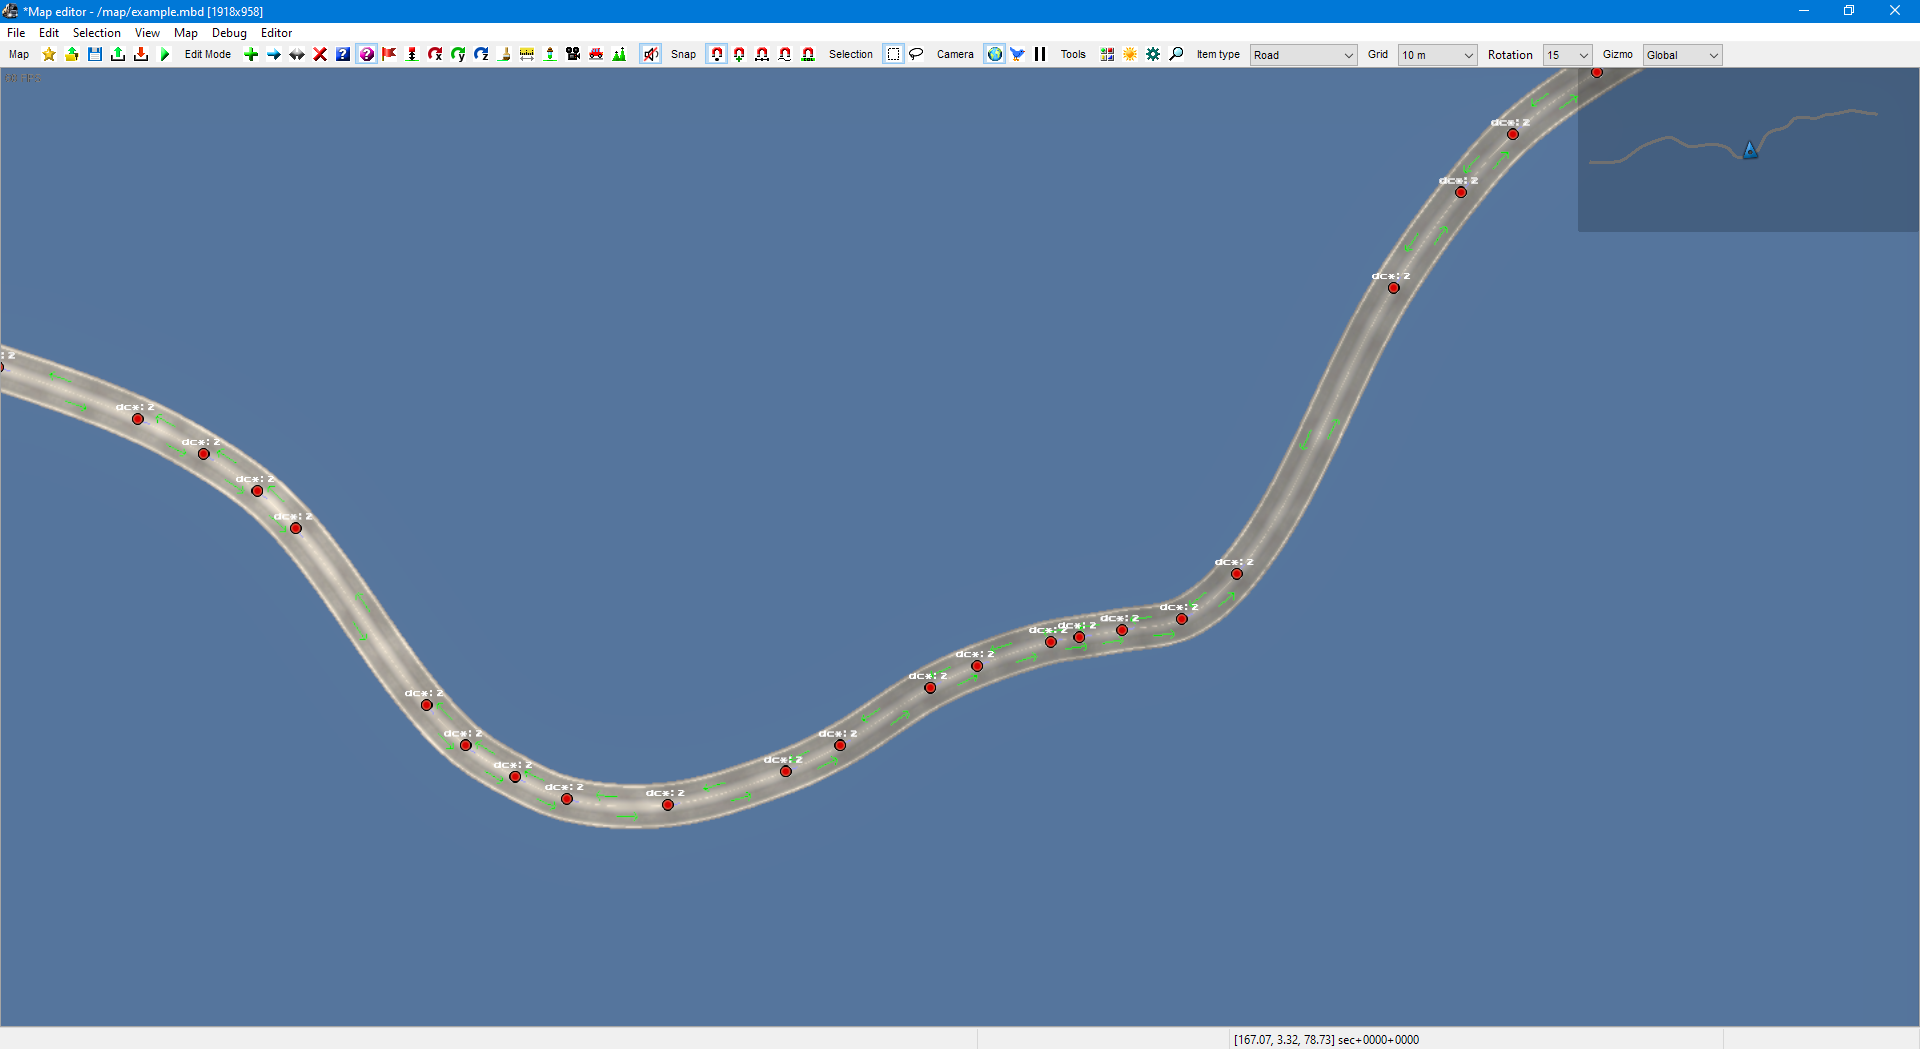
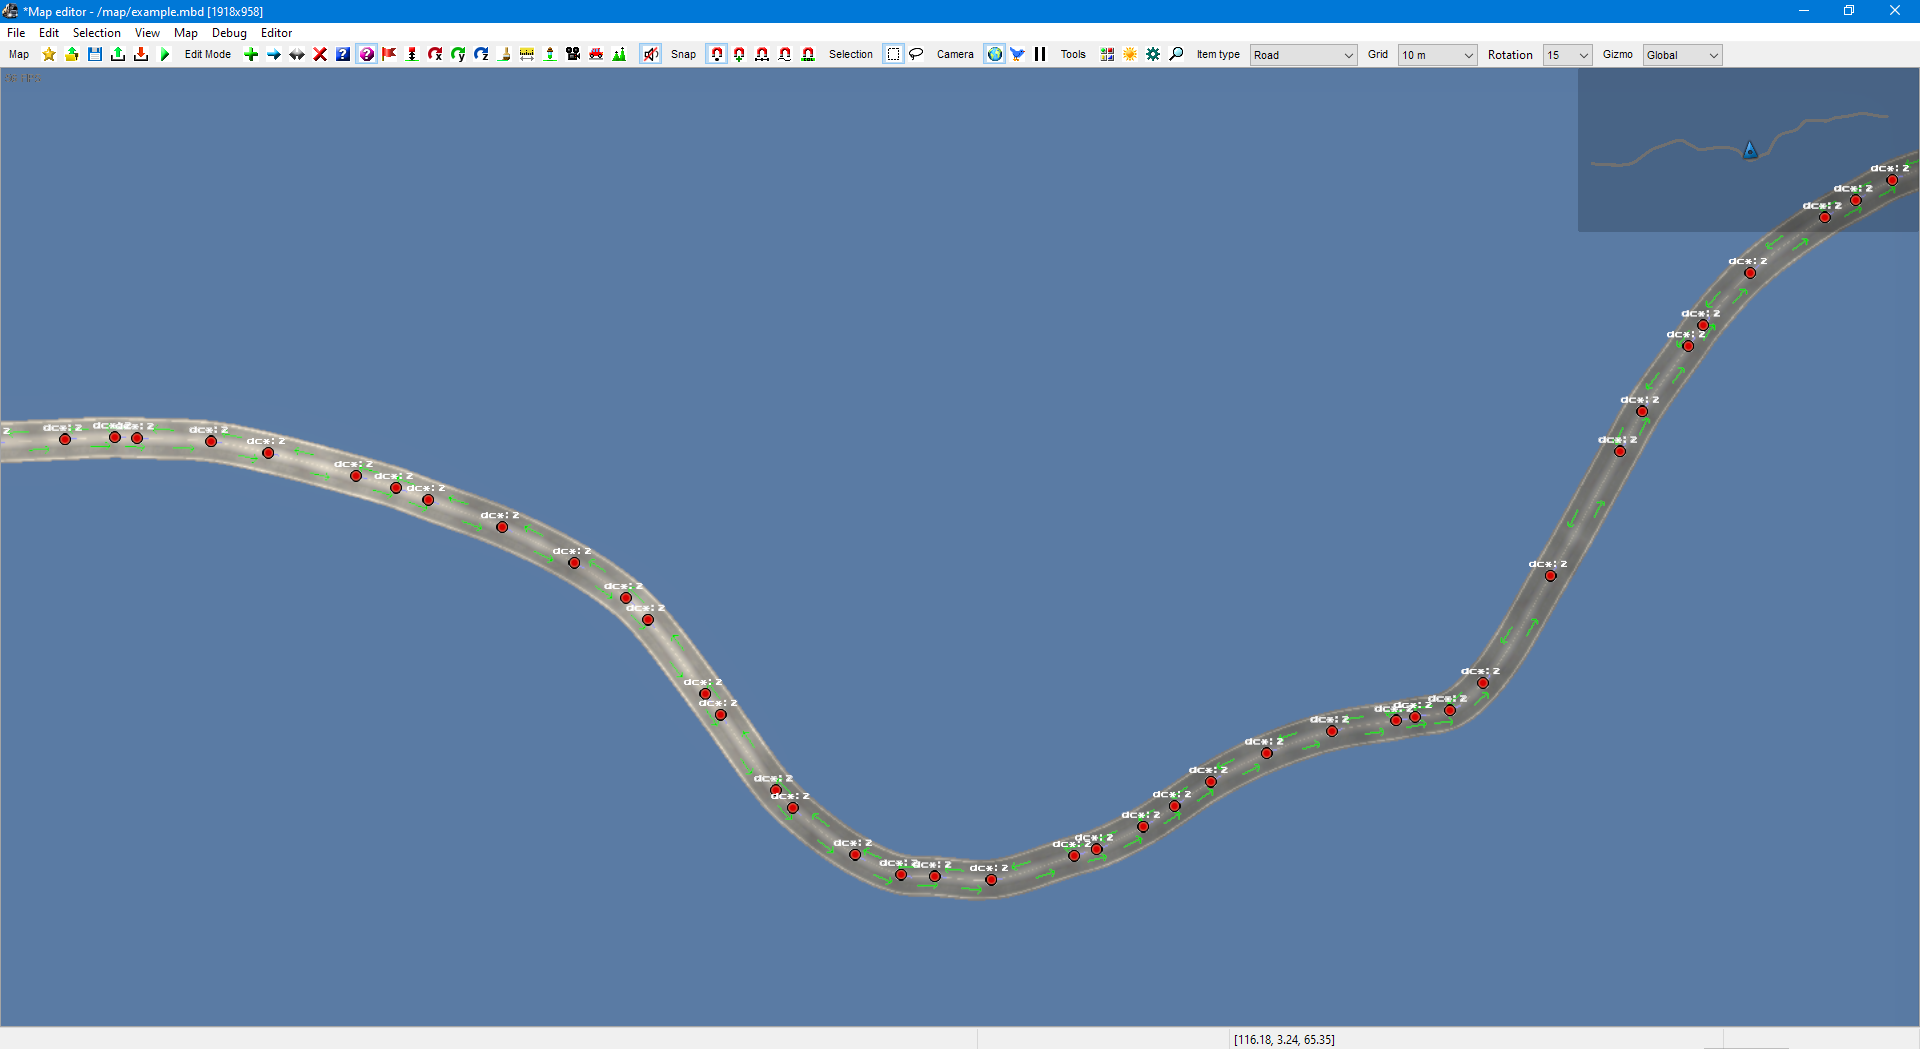
Replace `GetPointsElevation` with `GetLineGeometryElevation` (#4)

diff --git a/Samples/02-RealRoad/Program.cs b/Samples/02-RealRoad/Program.cs
@@ -23,9 +23,11 @@ namespace RealRoad
 
 
             // 2)
-            // Fetch height above mean sea level for each point.
+            // Fetch height above mean sea level along the path.
+            // This will give us a new set of coordinates which takes elevation changes
+            // along the way into account.
             var elevationProvider = ElevationProvider.Create();
-            elevationProvider.SetElevations(coordinates);
+            var coordinatesWithElevation = elevationProvider.GetElevations(coordinates);
 
 
             // 3)
@@ -35,12 +37,20 @@ namespace RealRoad
             // UTM zone 32N, which is the zone most of Germany falls into.
             var sourceCrs = KnownCoordinateSystems.Geographic.World.WGS1984;
             var destCrs = KnownCoordinateSystems.Projected.UtmWgs1984.WGS1984UTMZone32N;
-            var points = Project(coordinates, sourceCrs, destCrs);
+            var points = Project(coordinatesWithElevation, sourceCrs, destCrs);
 
             // We also project a center point which will be subtracted
             // from all of our road points.
             var center = Project(new[] { new GeographicCoordinate(54.744101, 9.799639) },
                 sourceCrs, destCrs)[0];
+
+            // The game has a minimum length for road segments, which in this case is 1.25 m.
+            // Further, segments shorter than 5 m often render quite strangely.
+            // Now that we have our projected points and know how long each segment will be
+            // in-game, we'll filter out these segments.
+            // For the sake of simplicity, we'll remove any point for which
+            // [i] - [i-1] is smaller than 5 m.
+            points = RemoveShortSegments(points);
 
 
             // 4)
@@ -117,6 +127,23 @@ namespace RealRoad
                 points.Add(new ProjectedCoordinate(easting, northing, coordinates[i].Height));
             }
             return points;
+        }
+
+        static List<ProjectedCoordinate> RemoveShortSegments(List<ProjectedCoordinate> input)
+        {
+            const double minLengthSquared = 5 * 5;
+            var output = new List<ProjectedCoordinate>() { input[0] };
+            for (int i = 1; i < input.Count; i++)
+            {
+                var deltaX = input[i].X - input[i - 1].X;
+                var deltaY = input[i].Y - input[i - 1].Y;
+                var lengthSquared = deltaX * deltaX + deltaY * deltaY;
+                if (lengthSquared > minLengthSquared)
+                {
+                    output.Add(input[i]);
+                }
+            }
+            return output;
         }
     }
 

diff --git a/Samples/02-RealRoad/ElevationProvider.cs b/Samples/02-RealRoad/ElevationProvider.cs
@@ -22,17 +22,14 @@ namespace RealRoad
             this.elevationService = elevationService;
         }
 
-        public void SetElevations(List<GeographicCoordinate> points)
+        public List<GeographicCoordinate> GetElevations(List<GeographicCoordinate> points)
         {
-            var geoPoints = elevationService.GetPointsElevation(
+            var geoPoints = elevationService.GetLineGeometryElevation(
                 points.Select(p => new GeoPoint(p.Latitude, p.Longitude)), 
                 dataset).ToList();
-            for (int i = 0; i < points.Count; i++)
-            {
-                var point = points[i];
-                point.Height = geoPoints[i].Elevation ?? 0;
-                points[i] = point;
-            }
+            return geoPoints.Select(
+                x => new GeographicCoordinate(x.Latitude, x.Longitude, x.Elevation ?? 0))
+                .ToList();
         }
     }
 }

diff --git a/docfx/docs/Samples/02-realroad.md b/docfx/docs/Samples/02-realroad.md
@@ -55,36 +55,32 @@ namespace RealRoad
 }
 ```
 
-We now add a method to this class which takes in the coordinates we just loaded and looks up the elevation at these points:
+We now add a method to this class which takes in the coordinates we just loaded and fetches the elevation of the road.
 
 ```cs
-public void SetElevations(List<GeographicCoordinate> points)
+public List<GeographicCoordinate> GetElevations(List<GeographicCoordinate> points)
 {
-    var geoPoints = elevationService.GetPointsElevation(
+    var geoPoints = elevationService.GetLineGeometryElevation(
         points.Select(p => new GeoPoint(p.Latitude, p.Longitude)), 
         dataset).ToList();
-    for (int i = 0; i < points.Count; i++)
-    {
-        var point = points[i];
-        point.Height = geoPoints[i].Elevation ?? 0;
-        points[i] = point;
-    }
+    return geoPoints.Select(
+        x => new GeographicCoordinate(x.Latitude, x.Longitude, x.Elevation ?? 0))
+        .ToList();
 }
 ```
+
+This gives us a new set of coordinates which not only has elevation for our input coordinates, but 
+also accounts for all elevation changes along the way.
 
 Finally, we'll call it from Main:
 
 ```cs
 var elevationProvider = ElevationProvider.Create();
-elevationProvider.SetElevations(coordinates);
+var coordinatesWithElevation = elevationProvider.GetElevations(coordinates);
 ```
 
-Our coordinates now have elevations associated with them. The first time you run this program, this step will take several seconds
+The first time you run this program, this step will take several seconds
 as DEM.Net needs to download the elevation model for the requested region; on any subsequent run, it will load a cached version from disk.
-
-Note that this is a primitive approach with one big disadvantage: we sample the elevation model at these particular points, but ignore elevation
-changes that happen in between. If you had two points which are 200 m apart, and within that distance the road goes slightly uphill,
-then downhill again, this elevation change would not be present in the road items we are about to place.
 
 ## Projection
 The real world is round, but game worlds are flat, so we need to project our points into that flat world. Here, we will use a transverse Mercator;
@@ -127,7 +123,7 @@ And this is how we call it:
 ```cs
 var sourceCrs = KnownCoordinateSystems.Geographic.World.WGS1984;
 var destCrs = KnownCoordinateSystems.Projected.UtmWgs1984.WGS1984UTMZone32N;
-var points = Project(coordinates, sourceCrs, destCrs);
+var points = Project(coordinatesWithElevation, sourceCrs, destCrs);
 ```
 
 We now have a list of `ProjectedCoordinate`s. Let's also define a center point for our map, which we will subtract
@@ -136,6 +132,16 @@ from our projected coordinates later:
 ```cs
 var center = Project(new[] { new GeographicCoordinate(54.744101, 9.799639) },
     sourceCrs, destCrs)[0];
+```
+
+One last thing &ndash; the game has a minimum length for road segments, which in this case is 1.25 m.
+Further, segments shorter than 5 m often render quite strangely. Now that we have our projected points
+and know how long each segment will be in-game, we'll filter out these segments.
+(This file has enough LOC as it is, so for the sake of simplicity, we just remove any point for which
+|| n<sub>i</sub> - n<sub>i-1</sub> || < 5.)
+
+```cs
+points = RemoveShortSegments(points);
 ```
 
 ## Adding the road to the map
